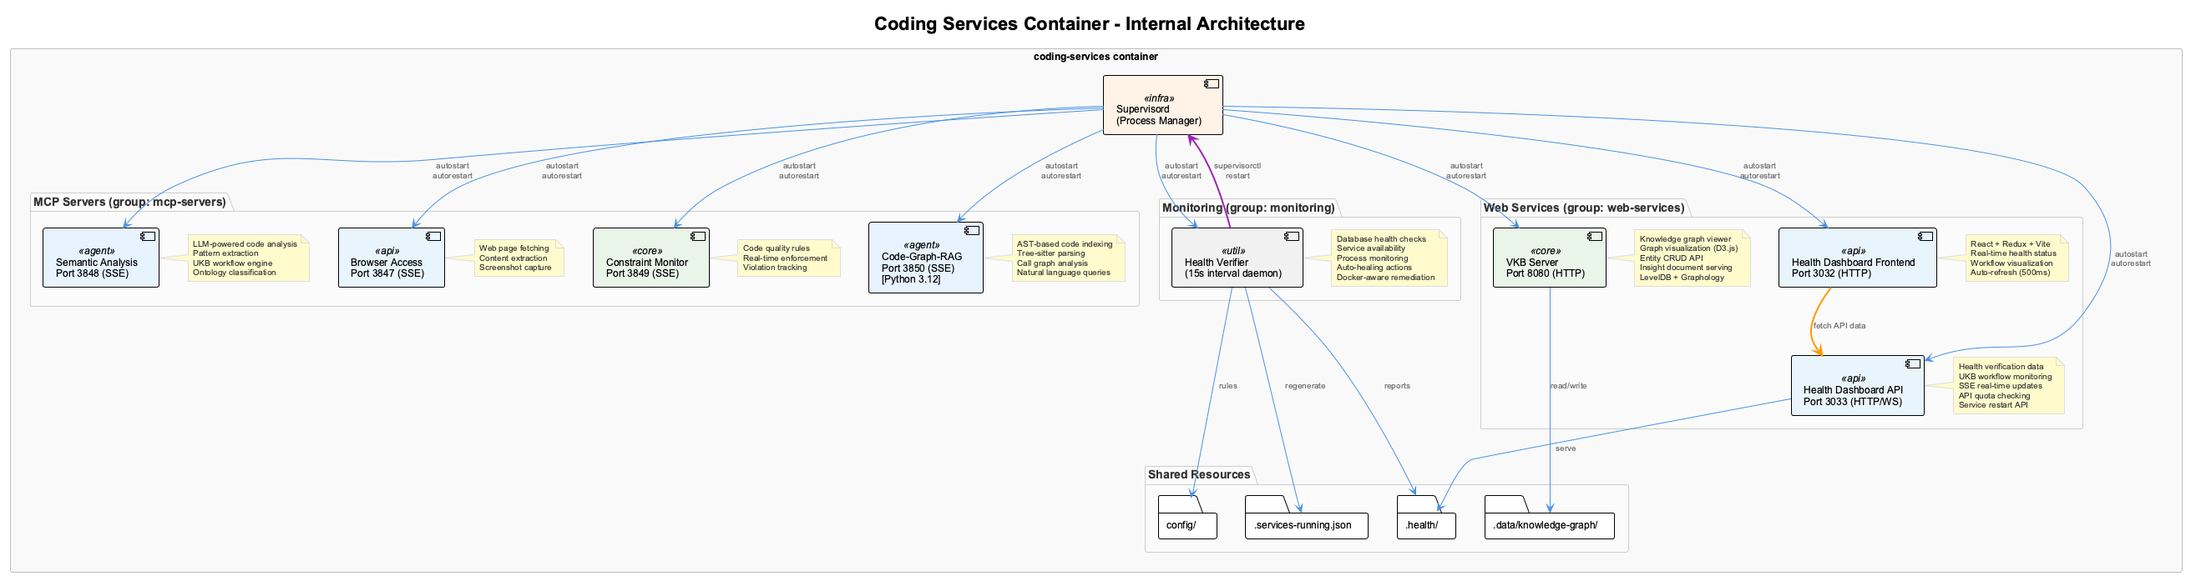
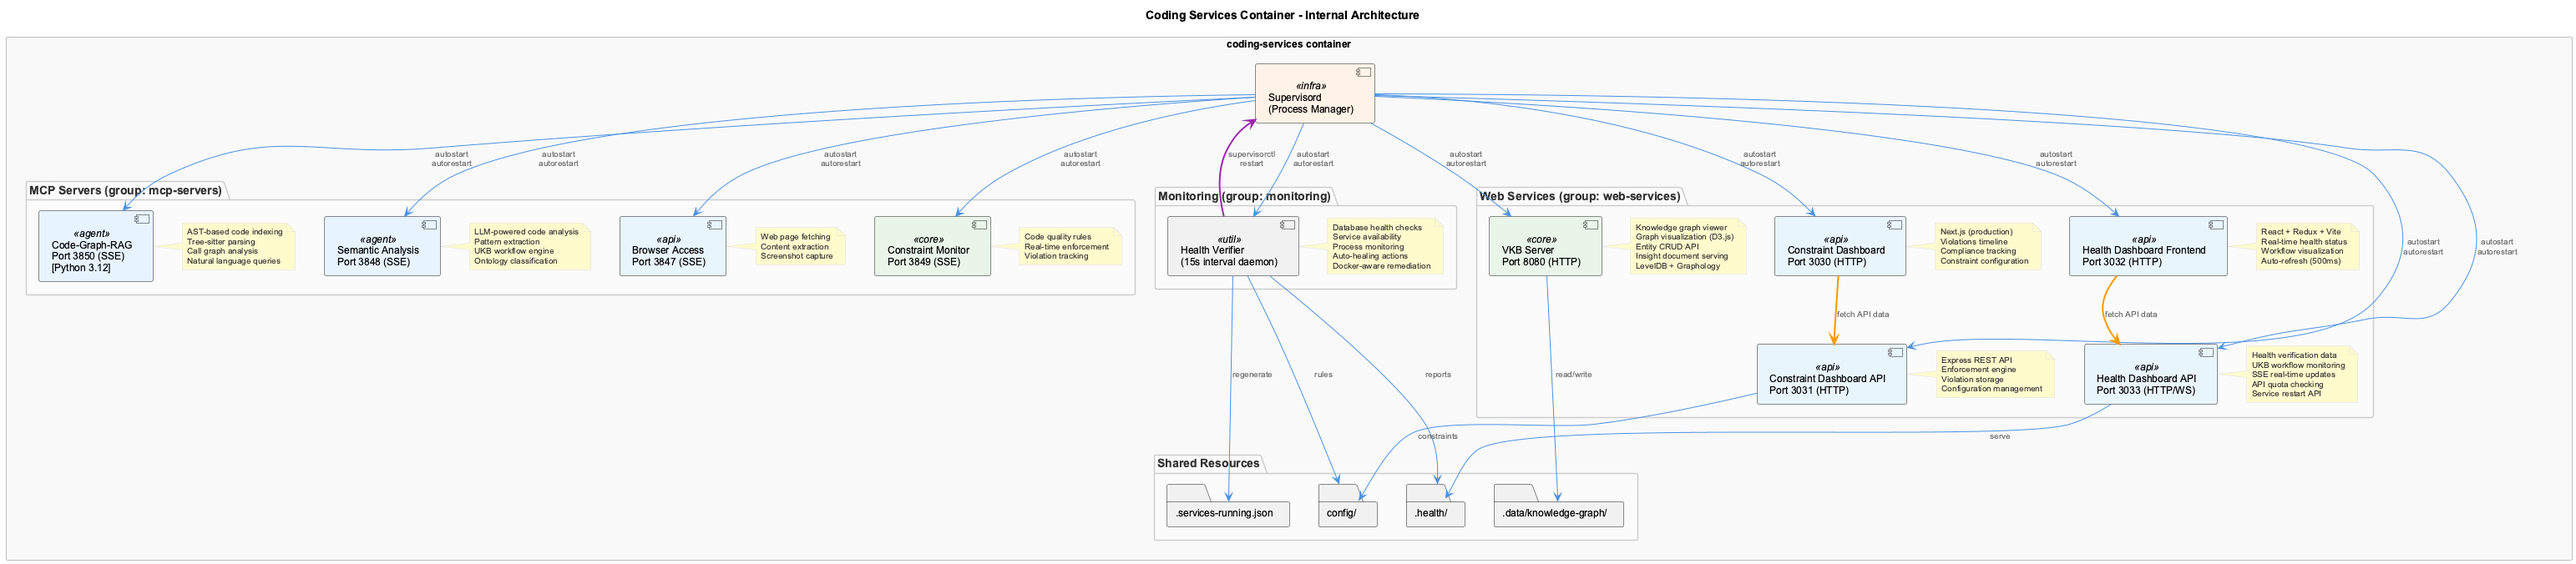
docs: LSLs

diff --git a/docs/architecture-report.md b/docs/architecture-report.md
@@ -6,13 +6,13 @@ A comprehensive overview of the "coding" infrastructure system - a containerized
 
 ## System Overview
 
-The coding system runs as a Docker Compose stack with 4 containers and 8 internal services, designed to augment Claude Code (CLI agent) with specialized AI-powered tools.
+The coding system runs as a Docker Compose stack with 4 containers and 10 internal services, designed to augment Claude Code (CLI agent) with specialized AI-powered tools. The only host-side service is the LLM CLI Proxy (port 12435), which bridges to host-local CLI tools.
 
 | Metric | Value |
 |--------|-------|
 | Total Containers | 4 |
-| Internal Services | 8 (managed by supervisord) |
-| Exposed Ports | 11 |
+| Internal Services | 10 (managed by supervisord) |
+| Exposed Ports | 12 |
 | Total Memory Usage | ~1.13 GB |
 | Total CPU Usage | ~3.15% |
 | Network | Bridge (coding-network) |
@@ -27,7 +27,7 @@ The coding system runs as a Docker Compose stack with 4 containers and 8 interna
 
 | Container | Image | Role | Ports | Memory |
 |-----------|-------|------|-------|--------|
-| `coding-services` | docker-coding-services | Main application (8 services) | 8080, 3032-3033, 3847-3850 | ~17.9% |
+| `coding-services` | docker-coding-services | Main application (10 services) | 3030-3031, 3032-3033, 3847-3850, 8080 | ~17.9% |
 | `coding-qdrant` | qdrant/qdrant:latest | Vector database | 6333, 6334 | ~2.7% |
 | `coding-memgraph` | memgraph-platform:latest | Graph database (code) | 7687, 3100 | ~2.6% |
 | `coding-redis` | redis:7-alpine | Cache & state | 6379 | ~0.1% |
@@ -49,15 +49,16 @@ All containers communicate over the `coding-network` bridge network using contai
 
 ![Internal Services Architecture](images/coding-services-internal.png)
 
-The `coding-services` container runs **supervisord** as PID 1, managing 8 services organized into 3 groups:
+The `coding-services` container runs **supervisord** as PID 1, managing 10 services organized into 3 groups:
 
 ### Group: mcp-servers (priority: 100)
 
-These are MCP (Model Context Protocol) servers exposed via SSE (Server-Sent Events), consumed by Claude Code.
+MCP (Model Context Protocol) servers exposed via SSE (Server-Sent Events), consumed by Claude Code.
 
 | Service | Port | Language | Purpose |
 |---------|------|----------|---------|
 | **semantic-analysis** | 3848 | TypeScript | LLM-powered code analysis, UKB workflow engine, ontology classification, pattern extraction |
+| **browser-access** | 3847 | TypeScript | Web page fetching, content extraction, screenshot capture |
 | **constraint-monitor** | 3849 | TypeScript | Code quality rules enforcement, real-time violation tracking |
 | **code-graph-rag** | 3850 | Python 3.12 | AST-based code indexing via Tree-sitter, call graph analysis, natural language code queries |
 
@@ -70,6 +71,8 @@ User-facing web applications and APIs.
 | **vkb-server** | 8080 | Knowledge graph viewer (D3.js visualization), entity CRUD API, insight document serving |
 | **health-dashboard** | 3033 | Health verification API, UKB workflow monitoring, SSE real-time updates, API quota checking |
 | **health-dashboard-frontend** | 3032 | React + Redux UI, real-time health status, workflow visualization |
+| **constraint-dashboard** | 3030 | Constraint Monitor Dashboard (Next.js), violations timeline, compliance tracking |
+| **constraint-dashboard-api** | 3031 | Constraint Monitor REST API, enforcement engine, configuration management |
 
 ### Group: monitoring (priority: 200)
 
@@ -78,6 +81,12 @@ Background monitoring services.
 | Service | Interval | Purpose |
 |---------|----------|---------|
 | **health-verifier** | 15s | Database health checks, service availability, process monitoring, Docker-aware auto-healing |
+
+### Host-side services
+
+| Service | Port | Purpose |
+|---------|------|---------|
+| **LLM CLI Proxy** | 12435 | Bridges to host-local Claude Code and GitHub Copilot CLI tools (requires host network access) |
 
 ---
 

diff --git a/docker/README.md b/docker/README.md
@@ -7,17 +7,14 @@ This directory contains Docker configuration for containerized deployment of the
 ![Docker Architecture](../docs/images/docker-architecture.png)
 
 **Host (Native):**
-- Claude CLI
-- Lightweight stdio proxies (connect to containers via HTTP/SSE)
+- Claude CLI + lightweight stdio proxies (connect to containers via HTTP/SSE)
+- LLM CLI Proxy: Port 12435 (bridges to host-local Claude Code / Copilot CLIs)
 
-**Docker Containers:**
-- **coding-services**: MCP servers running as HTTP/SSE services
-  - semantic-analysis: Port 3848
-  - browser-access: Port 3847
-  - constraint-monitor: Port 3849
-  - code-graph-rag: Port 3850
-  - VKB Server: Port 8080
-  - Health Dashboard: Ports 3032/3033
+**Docker Containers (10 supervisord-managed services):**
+- **coding-services**:
+  - MCP Servers: semantic-analysis (3848), browser-access (3847), constraint-monitor (3849), code-graph-rag (3850)
+  - Web Services: VKB Server (8080), Health Dashboard (3032/3033), Constraint Dashboard (3030/3031)
+  - Monitoring: health-verifier (background daemon)
 
 - **Databases:**
   - Qdrant: Ports 6333/6334
@@ -90,13 +87,15 @@ See `.env.ports` in the main repository for all port configurations:
 
 | Service | Port | Protocol |
 |---------|------|----------|
+| Constraint Dashboard (Next.js) | 3030 | HTTP |
+| Constraint Dashboard API | 3031 | HTTP |
+| Health Dashboard UI | 3032 | HTTP |
+| Health Dashboard API | 3033 | HTTP/WS |
 | Browser Access SSE | 3847 | HTTP/SSE |
 | Semantic Analysis SSE | 3848 | HTTP/SSE |
 | Constraint Monitor SSE | 3849 | HTTP/SSE |
 | Code Graph RAG SSE | 3850 | HTTP/SSE |
 | VKB Server | 8080 | HTTP |
-| Health Dashboard UI | 3032 | HTTP |
-| Health Dashboard API | 3033 | HTTP |
 | Qdrant HTTP | 6333 | HTTP |
 | Qdrant gRPC | 6334 | gRPC |
 | Redis | 6379 | TCP |

diff --git a/docs-content/getting-started/configuration.md b/docs-content/getting-started/configuration.md
@@ -30,27 +30,23 @@ CODING_REPO=/Users/<username>/Agentic/coding
 
 All ports are centralized in `.env.ports`:
 
-| Port | Service |
-|------|---------|
-| 8080 | VKB Server (Knowledge visualization) |
-| 3030 | Constraint Dashboard UI |
-| 3031 | Constraint Monitor API |
-| 3032 | System Health Dashboard UI |
-| 3033 | System Health API |
-| 7687 | Memgraph (Bolt protocol) |
-| 3100 | Memgraph Lab UI |
-| 12434 | Docker Model Runner |
-
-### Docker Mode Ports
-
-| Port | Service |
-|------|---------|
-| 3847 | Browser Access SSE |
-| 3848 | Semantic Analysis SSE |
-| 3849 | Constraint Monitor SSE |
-| 3850 | Code Graph RAG SSE |
-| 6333 | Qdrant HTTP |
-| 6379 | Redis |
+| Port | Service | Location |
+|------|---------|----------|
+| 3030 | Constraint Dashboard UI | Docker |
+| 3031 | Constraint Monitor API | Docker |
+| 3032 | System Health Dashboard UI | Docker |
+| 3033 | System Health API | Docker |
+| 3847 | Browser Access SSE | Docker |
+| 3848 | Semantic Analysis SSE | Docker |
+| 3849 | Constraint Monitor SSE | Docker |
+| 3850 | Code Graph RAG SSE | Docker |
+| 8080 | VKB Server (Knowledge visualization) | Docker |
+| 6333 | Qdrant HTTP | Docker |
+| 6379 | Redis | Docker |
+| 7687 | Memgraph (Bolt protocol) | Docker |
+| 3100 | Memgraph Lab UI | Docker |
+| 12435 | LLM CLI Proxy | Host |
+| 12434 | Docker Model Runner | Host |
 
 ## MCP & Hook Configuration
 

diff --git a/README.md b/README.md
@@ -90,7 +90,7 @@ See [Agent Integration Guide](docs/agent-integration-guide.md) for adding new ag
 coding --switch-to-native
 ```
 
-The Docker stack runs 4 containers (coding-services, Qdrant, Memgraph, Redis) with 8 internal services managed by supervisord, using ~1.75 GB memory total.
+The Docker stack runs 4 containers (coding-services, Qdrant, Memgraph, Redis) with 10 internal services managed by supervisord, using ~1.75 GB memory total. The only host-side service is the LLM CLI Proxy (port 12435), which bridges to host-local CLI tools like Claude Code and GitHub Copilot.
 
 ![Docker Container Architecture](docs/images/dockerized-system-architecture.png)
 

diff --git a/docs-content/architecture/health-monitoring.md b/docs-content/architecture/health-monitoring.md
@@ -99,7 +99,7 @@ GPS checks for the coordinator daemon via `pgrep` before restarting. This preven
 
 **Component**: `scripts/global-service-coordinator.js`
 
-**Function**: Manages constraint services (api-service port 3031, dashboard-service port 3030)
+**Function**: Manages constraint services (api-service port 3031, dashboard-service port 3030). In Docker mode, these services are managed by supervisord instead.
 
 - 15-second health check loop with port-based liveness checks
 - **OS-level duplicate check** via `findRunningProcessesByScript()` before every spawn

diff --git a/docs-content/integrations/constraint-monitor.md b/docs-content/integrations/constraint-monitor.md
@@ -10,9 +10,9 @@ Real-time code quality enforcement via MCP and PreToolUse hooks.
 |----------|-------|
 | Component | `mcp-constraint-monitor` |
 | Type | MCP Server + Hooks |
-| Port (Docker) | 3849 |
-| Dashboard | http://localhost:3030 |
-| API | http://localhost:3031 |
+| Port (Docker) | 3849 (SSE), 3030 (Dashboard), 3031 (API) |
+| Dashboard | http://localhost:3030 (Next.js, runs in Docker) |
+| API | http://localhost:3031 (Express, runs in Docker) |
 
 ## Enforcement Mechanism
 

diff --git a/docs-content/integrations/index.md b/docs-content/integrations/index.md
@@ -95,7 +95,7 @@ MCP servers and tools that extend the coding infrastructure.
 | Service | Port | Protocol | Health Check |
 |---------|------|----------|--------------|
 | Semantic Analysis | 3848 | HTTP/SSE | `/health` |
-| Constraint Monitor | 3031/3849 | HTTP | `/health` |
+| Constraint Monitor | 3030/3031/3849 | HTTP | `/health` |
 | Code Graph RAG | 3850 | HTTP/SSE | `/health` |
 | VKB Server | 8080 | HTTP | `/health` |
 | Health Dashboard | 3032 | HTTP | `/health` |

diff --git a/docs-content/guides/docker-mode-setup.md b/docs-content/guides/docker-mode-setup.md
@@ -375,7 +375,7 @@ docker compose -f docker/docker-compose.yml restart
 | VKB Server | 8080 | 8080 | `/health` |
 | Browser Access | 3847 | 3847 | `/health` |
 | Semantic Analysis | - | 3848 | `/health` |
-| Constraint Monitor | 3030/3031 | 3849 | `/health` |
+| Constraint Monitor | 3030/3031 | 3030/3031/3849 | `/health` |
 | Code Graph RAG | - | 3850 | `/health` |
 | Health Dashboard | 3032/3033 | 3032/3033 | `/health` |
 
